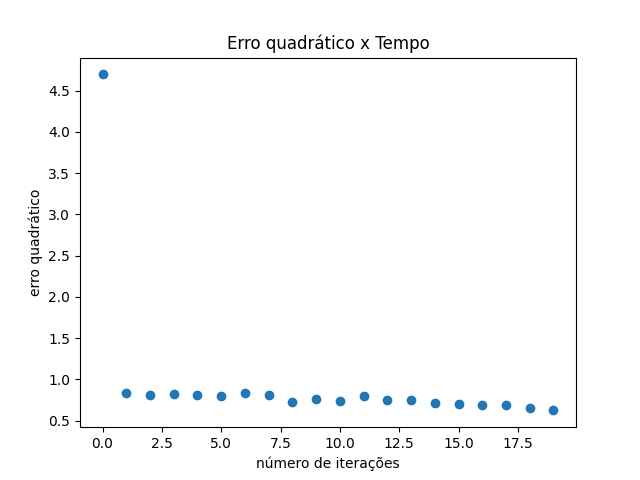
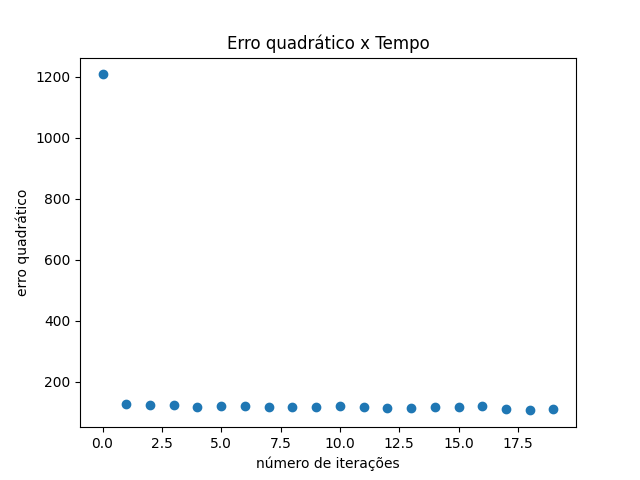
Fixed LM_cond optimizer, added manual weight initialization

diff --git a/PARTE2/fraud.py b/PARTE2/fraud.py
@@ -33,18 +33,18 @@ y_test = np.array(y_test)
 
 inputs = X_train
 targets = np.array(y_train)
-
-
+np.random.seed(1)
 net = NeuralNet([
-    Linear(input_size=30, output_size=100),
+    Linear(input_size=30, output_size=24, weights = np.random.randn(30, 24), biases = np.random.randn(24)),
     Tanh(),
-    Linear(input_size=100, output_size=100),
+    Linear(input_size=24, output_size=30, weights = np.random.randn(24, 30), biases = np.random.randn(30)),
     Tanh(),
-    Linear(input_size=100, output_size=100),
+    Linear(input_size=30, output_size=35, weights = np.random.randn(30, 35), biases = np.random.randn(35)),
     Tanh(),
-    Linear(input_size=100, output_size=1), 
+    Linear(input_size=35, output_size=1, weights = np.random.randn(35, 1), biases = np.random.randn(1)), 
     Sigmoid()
 ])
+
 # net = NeuralNet([
 #     Linear(input_size=30, output_size=2),
 #     Tanh(),
@@ -53,10 +53,10 @@ net = NeuralNet([
 # ])
 
 
-n_epochs = 20
+n_epochs = 2
 #loss_list = train(net, inputs,targets, loss = MSE() ,optimizer = Adam(lr = 1e-2, gamma1 = 0.3, gamma2 = 0.3), iterator = BatchIterator(1024), num_epochs = n_epochs)
 try:
-	loss_list = train(net, inputs,targets, loss = MSE() ,optimizer = Adam(lr = 1e-2, gamma1 = 0.3, gamma2 = 0.3), iterator = BatchIterator(150), num_epochs = n_epochs)
+	loss_list = train(net, inputs,targets, loss = MSE() ,optimizer = LM_cond(), iterator = BatchIterator(32), num_epochs = n_epochs)
 except np.linalg.LinAlgError as err:
 	print('Interrompido por matriz singular')
 
@@ -70,7 +70,7 @@ plt.title("Erro quadrático x Tempo")
 plt.xlabel("número de iterações")
 plt.ylabel("erro quadrático")
 plt.scatter(list(range(0, n_epochs)),loss_list)
-plt.savefig(f'Figuras/Fraud/EQ_Adam.png', format='png')
+plt.savefig(f'Figuras/Fraud/EQ_LM_COND.png', format='png')
 plt.show()
 
 
@@ -80,8 +80,8 @@ auc_val = auc(recall, precision)
 
 conf_mat = confusion_matrix(y_test, y_pred.round())
 print(f'Confusion matrix: \n( TN | FP)\n(FN | TP) \n\n{conf_mat}')
-with open("Evaluation/Adam.txt", "w") as out_file:
-	out_str = f"Trainning for {n_epochs} epochs\nConfusion matrix: \n"
+with open("Evaluation/LM.txt", "w") as out_file:
+	out_str = f"Treinando com {n_epochs} epochs\nConfusion matrix: \n"
 	out_str += str(conf_mat)
 	out_str += f"\nAUPRC: {auc_val}"
 	out_file.write(out_str)
@@ -93,6 +93,6 @@ plt.title(f'Precision-Recall Curve')
 plt.xlabel('Recall')
 plt.ylabel('Precision')
 plt.legend(loc='lower left')
-plt.savefig(f'Figuras/Fraud/PRC_Adam.png', format='png')
+plt.savefig(f'Figuras/Fraud/PRC_LM_COND.png', format='png')
 plt.show()
 

diff --git a/PARTE2/joelnet/optim.py b/PARTE2/joelnet/optim.py
@@ -198,11 +198,13 @@ class GD_cond(Optimizer):
             		print('Passo muito pequeno')
             		break
             	count = count + 1
+
+
  
 
 class LM_cond (Optimizer):
     def __init__(self) -> None:
-        self.alpha = 1e4
+        self.alpha = 1e2
 
     def step(self, net: NeuralNet) -> None:
 
@@ -211,7 +213,7 @@ class LM_cond (Optimizer):
             predicted = net.forward(net.curr_batch.inputs)
             loss_old = net.loss_f.loss(predicted, net.curr_batch.targets)
 
-            lamb = max( np.linalg.norm(grad), 1e-5)
+            lamb = min(max( np.linalg.norm(grad), 1e-5), 1e5)
             JTJ = jac.T@jac
             sh = grad.shape
             d = np.linalg.solve(JTJ + lamb*np.eye(len(JTJ)), -grad.flatten())
@@ -226,9 +228,12 @@ class LM_cond (Optimizer):
             predicted = net.forward(net.curr_batch.inputs)
             loss = net.loss_f.loss(predicted, net.curr_batch.targets)
 
+
+            loop_count = 0
+
             while not loss <= loss_old - self.alpha*(np.linalg.norm(param - old_param))**2:
 
-                lamb = 2*lamb
+                lamb = 10*lamb
 
                 d = np.linalg.solve(JTJ + lamb*np.eye(len(JTJ)), -grad.flatten())
                 d = d.reshape(sh)
@@ -239,6 +244,9 @@ class LM_cond (Optimizer):
                 # inner_p = np.inner(-grad.flatten(), d.flatten())
                 # print('produto interno: ', inner_p )
 
-                if lamb > 1e9:
-                    print('trapaça')
+                loop_count = loop_count + 1
+                #print(f'loop : {loop_count}')
+
+                if lamb > 1e8:
+                    #print('trapaça')
                     break

diff --git a/KAGGLE/fraud.py b/KAGGLE/fraud.py
@@ -49,7 +49,7 @@ model = keras.models.Sequential([
 
 
 model.compile(optimizer = "adam", loss='mean_squared_error', metrics=['accuracy'])
-model.fit(X_train, y_train, validation_split = 0.0, batch_size=50, epochs=20)
+model.fit(X_train, y_train, validation_split = 0.0, batch_size=150, epochs=20)
 
 
 #PARA SALVAR OS MODELOS E DEPOIS PLOTAR A PRC
@@ -74,10 +74,10 @@ with open("Evaluation/Adam.txt", "w") as out_file:
 	out_file.write(out_str)
 
 
-# plt.plot(recall, precision, marker = ".", markersize = 5, label = "HUSDHUAS" + f"     AUC: {auc_val:.3f} " )
-# plt.title(f'Precision-Recall Curve')
-# plt.xlabel('Recall')
-# plt.ylabel('Precision')
-# plt.legend(loc='lower left')
+plt.plot(recall, precision, marker = ".", markersize = 5, label = "HUSDHUAS" + f"     AUC: {auc_val:.3f} " )
+plt.title(f'Precision-Recall Curve')
+plt.xlabel('Recall')
+plt.ylabel('Precision')
+plt.legend(loc='lower left')
 
-# plt.show()
+plt.show()

diff --git a/PARTE2/joelnet/train.py b/PARTE2/joelnet/train.py
@@ -20,10 +20,11 @@ def train(net: NeuralNet,
     loss_list = []
     for epoch in range(num_epochs):
         n_iter = 0
+        progr = 0
+        count = 0
         epoch_loss = 0.0
         print(f'================   EPOCH NUMBER {epoch + 1}   ================')
         for batch in iterator(inputs, targets):
-            
             #print(f'batch: \n{batch}')
             net.n_iter = n_iter
             net.curr_batch = batch
@@ -34,6 +35,11 @@ def train(net: NeuralNet,
             grad = loss.grad(predicted, batch.targets)
             net.backward(grad)
             optimizer.step(net)
+            #print(f'PROGRESSO: {count} / 2671 | {100*progr/32}%')
+            if n_iter%32 == 0:
+              count = count + 1
+              progr = 0
+            progr = progr + 1
             n_iter = n_iter + 1
 
         # () / iterator.batch_size

diff --git a/PARTE2/square.py b/PARTE2/square.py
@@ -44,10 +44,10 @@ net = NeuralNet([
 
 
 
-n_epochs = 100
+n_epochs = 200
 
 #loss_list = train(net, inputs,targets, optimizer = Adam(lr = 1e-2, gamma1 = 0.3, gamma2 = 0.3),iterator = BatchIterator(batch_size = 5), num_epochs = 1000)
-loss_list = train(net, inputs,targets, loss = MSE() ,optimizer = Barzilai(), iterator = BatchIterator(batch_size =  5), num_epochs = n_epochs)
+loss_list = train(net, inputs,targets, loss = MSE() ,optimizer = LM_cond(), iterator = BatchIterator(batch_size =  5), num_epochs = n_epochs)
 
 
 
